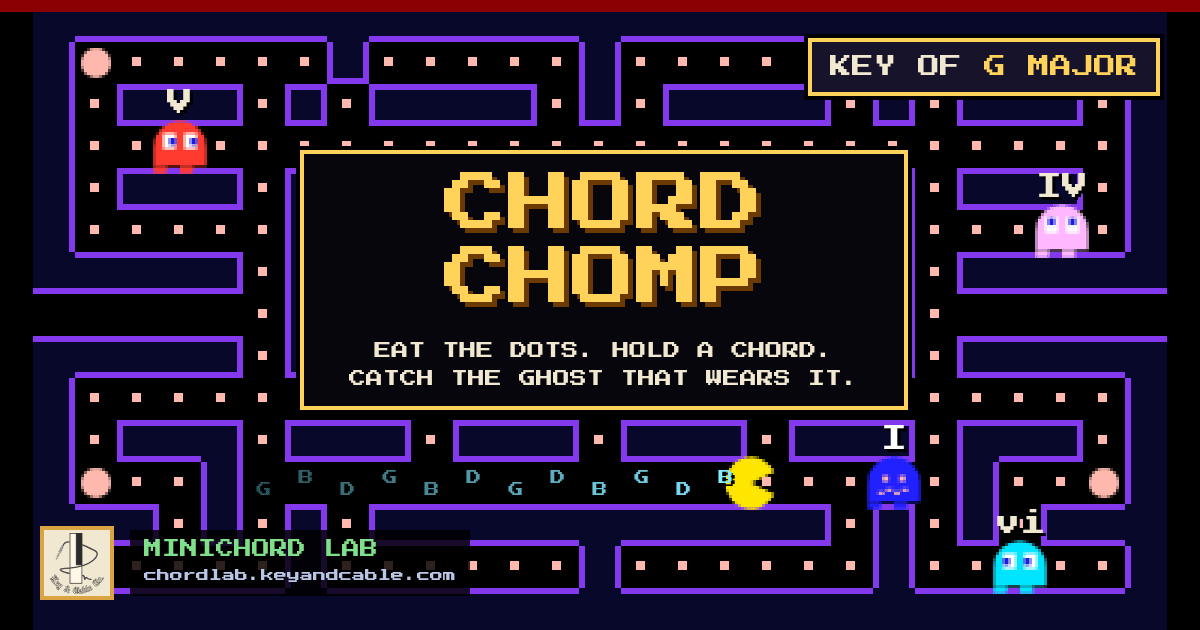
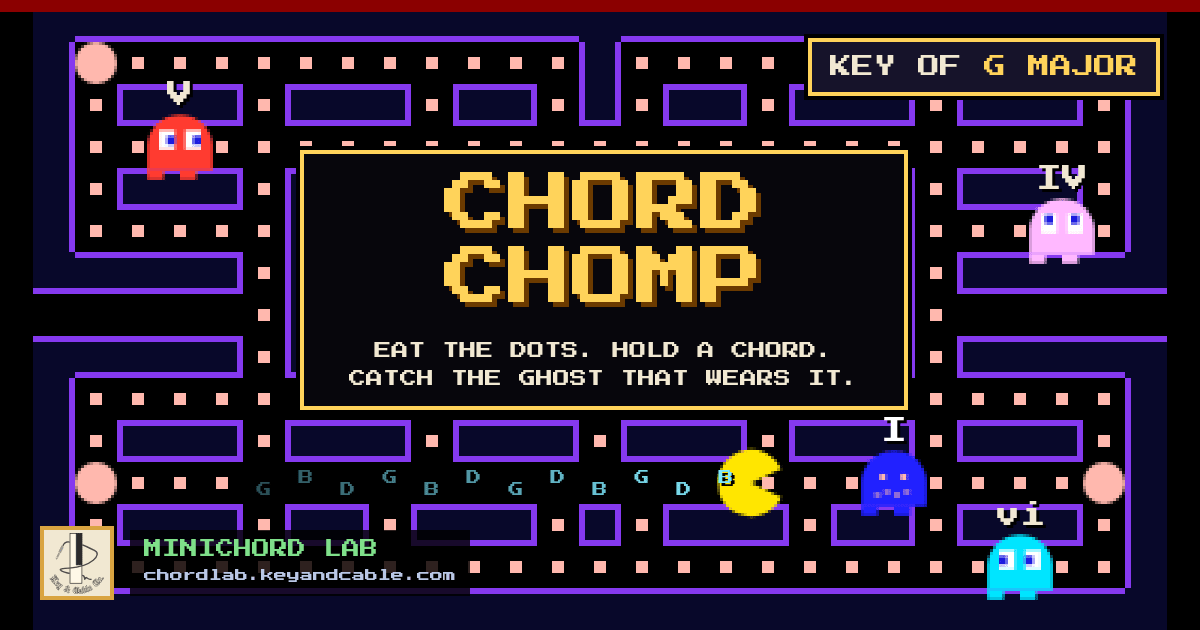
Chord Chomp's maze has no dead ends, its characters are drawn larger, and on a phone it scrolls
Ten corridors ended nowhere, two in the middle of the bottom row, two in its corners and six along
the top: the top and bottom rows are laid again so every one connects, and every open square is
reachable from the start. The player and the ghosts are drawn about one and a half squares across,
overlapping the walls as the old game's did, with bigger dots and pellets, bolder walls, and the
ghosts' chords clear of their heads.

Where the whole maze would come out with squares under 18 pixels (a phone held upright), it fills the
view's height instead, up to 34-pixel squares, and the view follows the player across it, eased, and
jumping through the tunnel. Ghosts out of view show as a pointer at its edge in their colour, level
with them, with their chord. A desktop's field is unchanged. The share card shows the new maze.

diff --git a/arcade/games/chord-chomp.js b/arcade/games/chord-chomp.js
@@ -37,8 +37,8 @@
 // The middle row runs off both sides, a tunnel to the other.
 const CC_MAZE=[
   "###########################",
-  "#o.....#.....#.....#.....o#",
-  "#.###.#.####.#.####.#.###.#",
+  "#o...........#...........o#",
+  "#.###.###.##.#.##.###.###.#",
   "#.........................#",
   "#.###.#.###########.#.###.#",
   "#.....#.............#.....#",
@@ -47,9 +47,9 @@ const CC_MAZE=[
   "#####.#.##.#####.##.#.#####",
   "#.........................#",
   "#.###.###.###.###.###.###.#",
-  "#o..#.................#..o#",
-  "###.#.#.###########.#.#.###",
-  "#.....#......#......#.....#",
+  "#o.......................o#",
+  "#.###.##.###.#.###.##.###.#",
+  "#.........................#",
   "###########################",
 ];
 const CC_COLS=CC_MAZE[0].length, CC_ROWS=CC_MAZE.length;
@@ -552,14 +552,36 @@ document.addEventListener("keydown", e=>{
 // On the arcade's pixel canvas: the maze (drawn once to its own canvas, in the key's colour), the
 // dots, the capsules, the key that's up, the ghosts and the player. The ghosts' chords, the key and
 // READY! go on the sharp layer above, so they read at any size.
+// The whole maze in view where it fits with squares big enough to play on. Where it doesn't (a phone
+// held upright), it fills the view the other way, as big as the view allows up to CC_BIG, and the view
+// follows the player across it, as the old handheld versions scrolled theirs.
+const CC_SMALL=18, CC_BIG=34;                                          // screen pixels a square
 function ccLayout(){
   const fw=fieldW(), fh=fieldH();
   const side = !kmStripShown() ? 16 : (saved.beginner || blast.phase==="demo") ? Math.ceil(Math.min(fw*.3, 300))+20 : (kmLayout().cols===3 ? 150 : 84);
-  const W=(fw-side-8)/PX, H=(fh-40-28)/PX;
-  const t=Math.max(4, Math.floor(Math.min(W/CC_COLS, H/CC_ROWS)));
-  blast.tile=t; blast.ox=Math.floor(8/PX+(W-t*CC_COLS)/2); blast.oy=Math.floor(40/PX+(H-t*CC_ROWS)/2);
-  blast.mazeCv=null;
+  const W=Math.floor((fw-side-8)/PX), H=Math.floor((fh-40-28)/PX);
+  let t=Math.floor(Math.min(W/CC_COLS, H/CC_ROWS));
+  if(t*PX<CC_SMALL) t=Math.max(t, Math.min(Math.floor(Math.max(W/CC_COLS, H/CC_ROWS)), Math.floor(CC_BIG/PX)));
+  blast.tile=Math.max(4,t); blast.view={x:Math.floor(8/PX), y:Math.floor(40/PX), w:W, h:H};
+  blast.scrolls = blast.tile*CC_COLS>W || blast.tile*CC_ROWS>H;
+  blast.cam=null; blast.mazeCv=null;
+  ccCamera(0);
 }
+// where the maze sits: centred in the view on an axis where it fits, otherwise the player in the middle
+// of the view as far as the maze's edges allow, eased there (and jumped, through the tunnel)
+function ccCamera(dt){
+  const t=blast.tile, v=blast.view, P=blast.pac ? ccPos(blast.pac) : {x:CC_START.x, y:CC_START.y};
+  const axis=(v0, len, maze, focus, was)=>{
+    if(maze<=len) return Math.floor(v0+(len-maze)/2);
+    const want=v0+Math.max(len-maze, Math.min(0, len/2-focus));
+    if(was==null || !dt || Math.abs(want-was)>len/2) return want;
+    return was+(want-was)*Math.min(1, dt*7);
+  };
+  const c=blast.cam||{};
+  c.x=axis(v.x, v.w, t*CC_COLS, (P.x+.5)*t, c.x); c.y=axis(v.y, v.h, t*CC_ROWS, (P.y+.5)*t, c.y);
+  blast.cam=c; blast.ox=Math.round(c.x); blast.oy=Math.round(c.y);
+}
+const ccInView=(x,y,m=0)=>{ const v=blast.view; return !v || (x>=v.x-m && x<=v.x+v.w+m && y>=v.y-m*2 && y<=v.y+v.h+m); };
 // the maze's colour: the old game's blue in C, turned round the colour wheel with the key
 const ccWall=f=>`hsl(${mod(235+f*30,360)},85%,${f%2?58:62}%)`;
 function ccMazePaint(){
@@ -567,7 +589,7 @@ function ccMazePaint(){
   const g=cv.getContext("2d"); if(!g || !g.fillRect) return cv;
   const col=ccWall(blast.key ? blast.key.f : 0), wall=(x,y)=>ccCell(x,y)==="#" && !(y===7 && (x<0 || x>=CC_COLS));
   g.fillStyle="#000"; g.fillRect(0,0,cv.width,cv.height);
-  const w=Math.max(1, Math.round(t/6));
+  const w=Math.max(1, Math.round(t/5));
   for(let y=0;y<CC_ROWS;y++) for(let x=0;x<CC_COLS;x++){
     if(!wall(x,y)) continue;
     g.fillStyle="#08082A"; g.fillRect(x*t, y*t, t, t);
@@ -584,18 +606,20 @@ function ccDraw(g, now){
   if(!blast.dots){ ccLabelsBegin(); return; }
   const lk=`${blast.fx.w}x${blast.fx.h}|${PX}|${kmStripShown()}|${!!saved.beginner}|${blast.phase==="demo"}|${saved.harpLayout||""}`;
   if(blast.layoutKey!==lk){ blast.layoutKey=lk; ccLayout(); }
+  if(blast.scrolls){ ccCamera(Math.min(.1, (now-(blast.camAt||now))/1000)); blast.camAt=now;
+    const v=blast.view; g.save(); g.beginPath(); g.rect(v.x, v.y, v.w, v.h); g.clip(); }       // the maze seen through the view
   const t=blast.tile, ox=blast.ox, oy=blast.oy;
   if(!blast.mazeCv) blast.mazeCv=ccMazePaint();
   // cleared: the walls flash white, as the old game's did
   if(blast.st==="clear" && Math.floor((blast.clock-(blast.stUntil-2.2))*4)%2){ g.fillStyle="#F1E8D2"; g.fillRect(ox, oy, CC_COLS*t, CC_ROWS*t); g.globalCompositeOperation="multiply"; g.drawImage(blast.mazeCv, ox, oy); g.globalCompositeOperation="source-over"; }
   else g.drawImage(blast.mazeCv, ox, oy);
   // the dots and the pellets, blinking
-  const ds=Math.max(1, Math.round(t/5)), blink=Math.floor(blast.clock*3)%2===0 || blast.st!=="go";
+  const ds=Math.max(2, Math.round(t/4)), blink=Math.floor(blast.clock*3)%2===0 || blast.st!=="go";
   for(let y=0;y<CC_ROWS;y++) for(let x=0;x<CC_COLS;x++){
     const v=blast.dots[y][x]; if(!v) continue;
     const cx=ox+x*t+t/2, cy=oy+y*t+t/2;
     if(v===1){ g.fillStyle="#FFB8AE"; g.fillRect(Math.floor(cx-ds/2), Math.floor(cy-ds/2), ds, ds); }
-    else if(blink){ g.fillStyle="#FFB8AE"; g.beginPath(); g.arc(cx, cy, t*.38, 0, Math.PI*2); g.fill(); }
+    else if(blink){ g.fillStyle="#FFB8AE"; g.beginPath(); g.arc(cx, cy, t*.48, 0, Math.PI*2); g.fill(); }
   }
   ccLabelsBegin();
   const at=e=>{ const p=ccPos(e); return {x:ox+(p.x+.5)*t, y:oy+(p.y+.5)*t}; };
@@ -603,8 +627,8 @@ function ccDraw(g, now){
   g.save(); g.beginPath(); g.rect(ox, oy, CC_COLS*t, CC_ROWS*t); g.clip();
   // the capsules: a disc with its icon, blinking as it goes
   for(const c of blast.caps){ if(c.until-blast.clock<2.5 && Math.floor(blast.clock*6)%2) continue;
-    const cx=ox+(c.x+.5)*t, cy=oy+(c.y+.5)*t; g.fillStyle=c.k==="dacapo" ? "#FF4B3E" : "#FF5AA0"; g.beginPath(); g.arc(cx, cy, t*.55, 0, Math.PI*2); g.fill();
-    ccLabel(cx, cy, t*.55, CC_POWERS[c.k].icon, null); }
+    const cx=ox+(c.x+.5)*t, cy=oy+(c.y+.5)*t; g.fillStyle=c.k==="dacapo" ? "#FF4B3E" : "#FF5AA0"; g.beginPath(); g.arc(cx, cy, t*.65, 0, Math.PI*2); g.fill();
+    ccLabel(cx, cy, t*.65, CC_POWERS[c.k].icon, null); }
   // the little minichord, tilted as the arcade's favicon is, in the tunnel
   const mi=blast.mini;
   if(mi && !(mi.until-blast.clock<2.5 && Math.floor(blast.clock*6)%2)) ccMiniDraw(g, ox+(mi.x+.5)*t, oy+(mi.y+.5)*t+Math.sin(blast.clock*5)*t*.08, t);
@@ -622,13 +646,14 @@ function ccDraw(g, now){
   if(!dying || blast.clock-blast.diedAt<.5) for(const gh of blast.ghosts) ccGhost(g, gh, at(gh), t, now);
   ccPlayer(g, at(blast.pac), t, now);
   g.restore();
+  if(blast.scrolls){ g.restore(); ccOffscreen(g, at, t); }
   // a ghost's chord over it; READY!
   if(!dying || blast.clock-blast.diedAt<.5) for(const gh of blast.ghosts) ccGhostLabel(gh, at(gh), t);
   if(blast.st==="ready") ccLabel(ox+(CC_FRUIT.x+.5)*t, oy+(CC_FRUIT.y+.5)*t, t*.7, "READY!", "#FFD35A");
 }
 // the player: a disc, its mouth opening and closing as it goes; shrinking away when caught
 function ccPlayer(g, p, t, now){
-  const P=blast.pac, r=t*.62, rot={right:0, down:Math.PI/2, left:Math.PI, up:-Math.PI/2}[P.dir||"left"];
+  const P=blast.pac, r=t*.8, rot={right:0, down:Math.PI/2, left:Math.PI, up:-Math.PI/2}[P.dir||"left"];
   let a = blast.st==="go" && !P.stopped ? .08+.75*Math.abs(Math.sin(blast.clock*14)) : .45;
   if(blast.st==="dying"){ const k=Math.min(1, Math.max(0, (blast.clock-blast.diedAt-.5)/1)); a=.2+k*(Math.PI-.2); if(k>=1) return; }
   const resting=blast.clock<blast.restUntil;
@@ -638,7 +663,7 @@ function ccPlayer(g, p, t, now){
 function ccGhost(g, gh, p, t, now){
   if(gh.state==="house" && blast.st==="go") p={x:p.x, y:p.y+Math.sin(now/180+gh.i)*t*.15};   // bobbing at home
   if(blast.st==="jam" && gh.state!=="eyes") p={x:p.x+Math.sin(now/150+gh.i*1.6)*t*.12, y:p.y-Math.abs(Math.sin(now/150+gh.i*1.6))*t*.22};   // dancing
-  const w=t*1.25, h=w, x0=p.x-w/2, top=p.y-h/2;
+  const w=t*1.55, h=w, x0=p.x-w/2, top=p.y-h/2;
   const ending = gh.scared && blast.powerUntil-blast.clock<2 && Math.floor(blast.clock*6)%2;
   if(gh.state!=="eyes"){
     const still=blast.clock<blast.fermataUntil;
@@ -666,9 +691,9 @@ function ccGhostLabel(gh, p, t){
   if(!gh.chord || gh.state==="eyes" || (gh.state!=="out" && blast.st!=="jam")) return;   // at home, unlabelled (they'd sit on one another), but for the jam
   const L=ccLevel(), power=ccPowerOn();
   const col = gh.scared ? "#FFFFFF" : power && gh.state==="out" ? (Math.floor(blast.clock*4)%2 ? "#FFD35A" : "#FFF4C2") : "#F1E8D2";
-  const y=p.y-t*.95;
-  if(L.names){ ccLabel(p.x, y, t*.62, gh.chord.sym, col); ccLabel(p.x, y-t*.62, t*.36, gh.num, "#9A93B5"); }
-  else ccLabel(p.x, y, t*.62, gh.num, col);
+  const y=p.y-t*1.2;
+  if(L.names){ ccLabel(p.x, y, t*.7, gh.chord.sym, col); ccLabel(p.x, y-t*.7, t*.4, gh.num, "#9A93B5"); }
+  else ccLabel(p.x, y, t*.7, gh.num, col);
   if(blast.clock<blast.fermataUntil) ccLabel(p.x, p.y+t*.05, t*.45, CC_POWERS.fermata.icon, null);
 }
 function ccLabelsBegin(){
@@ -676,12 +701,28 @@ function ccLabelsBegin(){
   if(blast.lg){ blast.lg.textAlign="center"; blast.lg.textBaseline="middle"; }
 }
 // text on the sharp layer, at a place on the pixel canvas, size in its pixels
-function ccLabel(x, y, size, text, col){
+function ccLabel(x, y, size, text, col, any){
   const g=blast.lg; if(!g || !g.fillText) return;
+  if(!any && blast.scrolls && !ccInView(x, y, blast.tile*.5)) return;        // scrolled out of view
   const fs=Math.round(Math.max(size*PX, 8));
   g.font=`400 ${Math.min(fs, 40)}px "Press Start 2P","Minichord Lab Accidentals",monospace`;
   if(col){ g.fillStyle="#000"; g.fillText(text, x*PX+2, y*PX+2); g.fillStyle=col; } else g.fillStyle="#FFF";
   g.fillText(text, x*PX, y*PX);
+}
+// Scrolling, the ghosts out of view: a pointer at the edge of the view in each one's colour (blue if
+// it's the one held), level with it, and its chord, so a ghost to catch or to keep clear of is never
+// out of mind.
+function ccOffscreen(g, at, t){
+  const v=blast.view, L=ccLevel(), power=ccPowerOn();
+  for(const gh of blast.ghosts){
+    if(gh.state==="eyes" || (gh.state!=="out" && blast.st!=="jam")) continue;
+    const p=at(gh); if(p.x>=v.x && p.x<=v.x+v.w) continue;
+    const left=p.x<v.x, x=left ? v.x+2 : v.x+v.w-2, y=Math.max(v.y+t, Math.min(v.y+v.h-t, p.y)), s=Math.max(3, Math.round(t*.45)), d=left?1:-1;
+    g.fillStyle=gh.scared ? "#2121FF" : gh.col;
+    g.beginPath(); g.moveTo(x, y); g.lineTo(x+d*s*1.4, y-s); g.lineTo(x+d*s*1.4, y+s); g.closePath(); g.fill();
+    const col = gh.scared ? "#FFFFFF" : power ? "#FFD35A" : "#F1E8D2";
+    ccLabel(x+d*(s*1.4+t*.9), y, t*.5, L.names ? gh.chord.sym : gh.num, col, true);
+  }
 }
 // a popup over a place in the maze
 function ccPop(e, text, colour){

diff --git a/tests/arcade/chord-chomp.test.js b/tests/arcade/chord-chomp.test.js
@@ -98,6 +98,13 @@ const t=require("./harness").load("chord-chomp");
   check("on firmware without the combo, the key's home chord takes it, and the minichord's set to it", a.key.name==="D" && t.mc.params[35]===w.eval("keyIndexOf(2)"));
   check("the little minichord turns up only once a game", !a.mini);
   t.mc.params[7]=17;
+  // a phone held upright: the maze fills the view's height, big enough to play on, and the view follows
+  // the player; on a wide field the whole maze shows and nothing scrolls
+  check("on a wide field the whole maze is in view, unscrolled", !a.scrolls && a.tile*w.eval("PX")>=w.eval("CC_SMALL"), `${a.tile*w.eval("PX")} px squares`);
+  const cam=w.eval(`(()=>{ const fx=blast.fx; fx.ro=fx.ro||{}; fx.fw=375; fx.fh=513; PX=3; ccLayout(); const out=[];
+    for(const x of [1,13,25]){ Object.assign(blast.pac,{x, y:9, p:0}); ccCamera(0); const px=blast.ox+(x+.5)*blast.tile, v=blast.view; out.push(px>=v.x && px<=v.x+v.w); }
+    return {scrolls:blast.scrolls, sq:blast.tile*PX, seen:out}; })()`);
+  check("on a phone it scrolls, at three times the squares, keeping the player in view from end to end", cam.scrolls && cam.sq>=27 && cam.seen.every(Boolean), JSON.stringify(cam));
   // leaving gives the key back
   sb.restoreAll();
   check("leaving gives back the minichord's own key", t.mc.params[35]===2);

diff --git a/tests/README.md b/tests/README.md
@@ -42,7 +42,7 @@ its own before it counts: the checks keep real time, and a busy machine can make
 | `sight-line` | notes and chords read at the playhead; wrong strings and missed notes; key signatures and key changes; inversions and their bass; tunes named; the demo scrolls like play |
 | `chord-hunt` | every level's chords spell plainly in every key it deals; a round sets the minichord's key (a minor key, its relative major's); a duck is shot by its chord; a wrong chord waits a moment, then spends a shell and says its numeral; three wrong and it's away; the harp replays home and the duck, as help; too few ducks costs a life, enough moves on; a V7 played through its triad isn't a miss; flocks in order, named; the dog's tag gives its power-up; the POWER-UPS page; Clay Shooting; the key given back |
 | `key-racer` | every circuit's chords spell plainly and its oil is never of the key; the circle spells in every key; qualifying's seven chords in order set the grid; the harp steers (low strings left) and, chosen instead, a knob; a gate of the key collected, one not played open shut, oil spins the car; a gate played open; a rival pulled over by its chord, one out of the key not; V then I the turbo; the line finishes and the next circuit comes; the clock costs a life; Endurance's checkpoint changes the key and extends the clock for its I; the signature at C, the modifier set for the key; the key given back |
-| `chord-chomp` | the maze's key set on the minichord, the ghosts wearing its chords; the harp and the keys steer; dots eaten, waka with nothing held and the held chord's notes with one; a power pellet turns blue only the ghost whose chord is held, caught for its points, while one not held still catches you; the cadences named; a key that turns up taken by the combo, the ghosts' chords moving with it, any other key put back, and without the combo its home chord takes it; the little minichord a key leaves in the tunnel, once a game, and its jam session: the chords in a progression's order, a wrong one costing time, all four catching their ghosts for the bonus; FERMATA, REST and DA CAPO; a caught ghost's eyes home and out again; a maze cleared is the next level; the key given back |
+| `chord-chomp` | the maze's key set on the minichord, the ghosts wearing its chords; the harp and the keys steer; dots eaten, waka with nothing held and the held chord's notes with one; a power pellet turns blue only the ghost whose chord is held, caught for its points, while one not held still catches you; the cadences named; a key that turns up taken by the combo, the ghosts' chords moving with it, any other key put back, and without the combo its home chord takes it; the little minichord a key leaves in the tunnel, once a game, and its jam session: the chords in a progression's order, a wrong one costing time, all four catching their ghosts for the bonus; FERMATA, REST and DA CAPO; a caught ghost's eyes home and out again; a maze cleared is the next level; the whole maze in view on a wide field, and on a phone the maze at three times the size, scrolling to keep the player in view; the key given back |
 | `chord-asteroids-aim` | chord rocks worth their chord; manual aim: the knobs made inert, the ship spun by a knob, off-line shots wide, notes double; both knobs endless at their stops |
 | `chord-invaders-aim` | manual aim: the knobs inert, the ship steered by a knob, a chord above the ship hits and one elsewhere goes wide, the multiplier doubled |
 | `chord-invaders-power` | the beam destroys that chord above the ship, on energy; omni beam destroys anything and sweeps in auto aim; power-ups taken by their chord; slow time; the shield; DA CAPO gives a heart back, or one more up to five, rarer than the rest |
